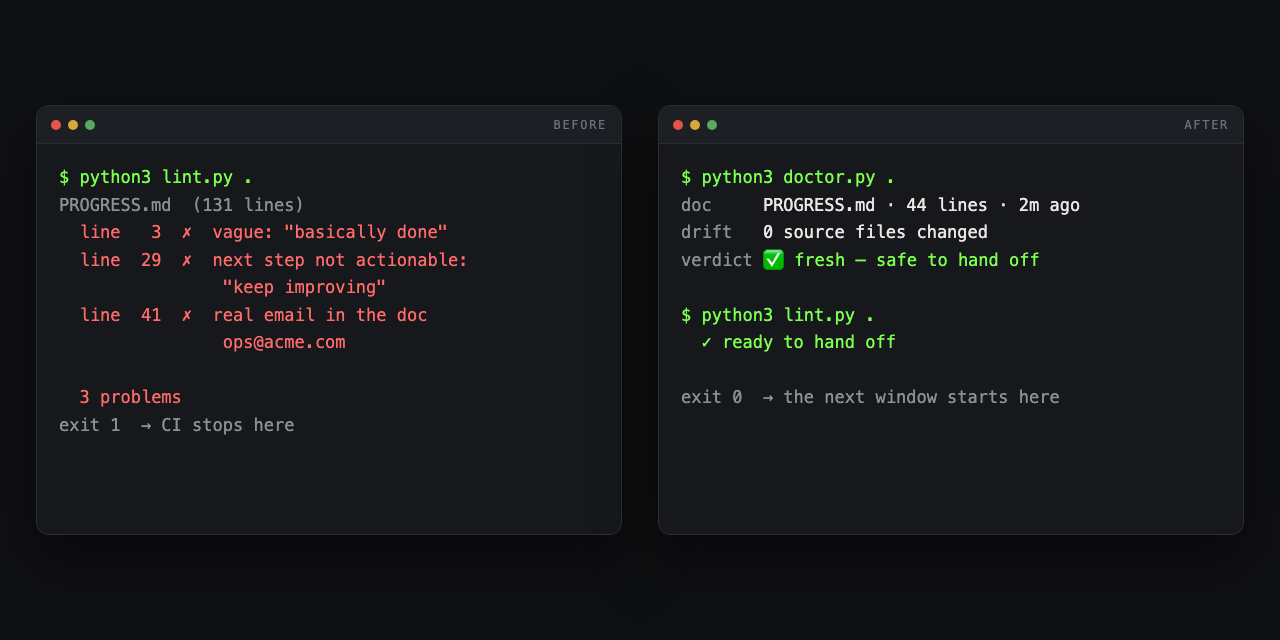
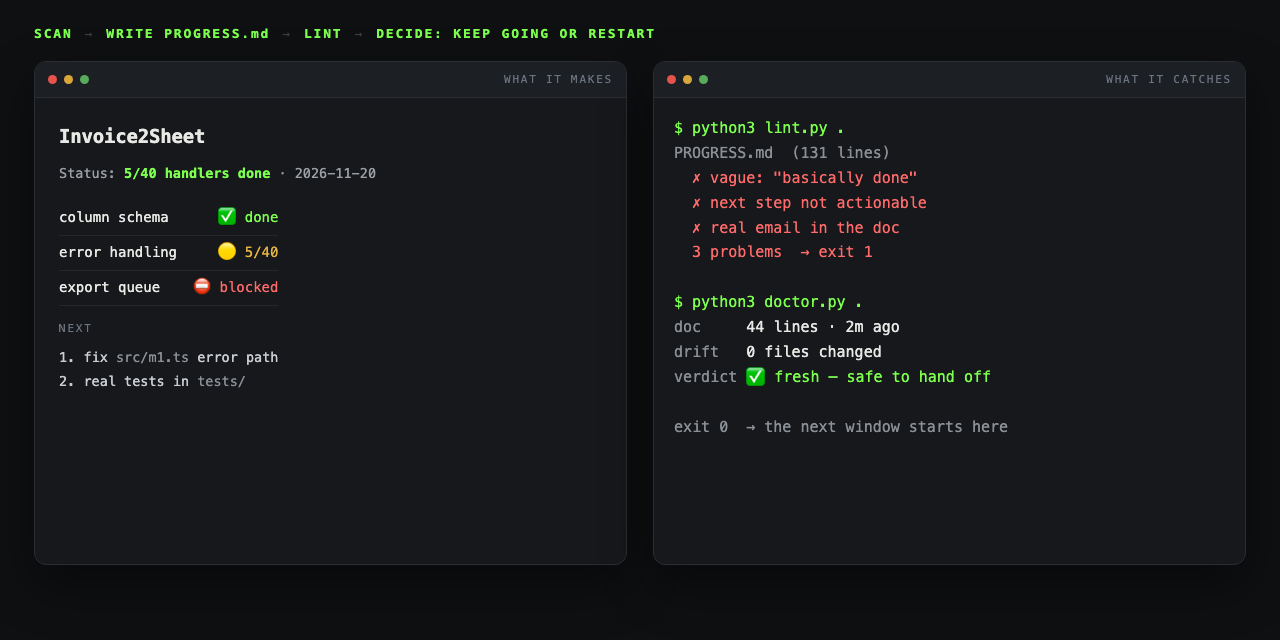
feat: install with one command; say what it makes, not just what it rejects
- README leads with 'npx skills add ming-coal/progress-brief' (verified end to end)
- demo image now shows the flow, the artifact and the lint catch
- PROGRESS.md for this repo, linted in CI (dogfooding)
- docs/launch.md updated for the registry reality

diff --git a/PROGRESS.md b/PROGRESS.md
@@ -1,0 +1,57 @@
+# progress-brief
+
+> Status: **v0.1 shipped, waiting for the first real users** · updated 2026-11-20
+
+## One-liner
+A handoff skill that reads the repo instead of the chat. Scans a project, writes a
+converged `PROGRESS.md`, lints it, and says when to restart the conversation.
+
+## Output
+| file | spec | note |
+|---|---|---|
+| `scripts/scan.py` | digest + token ledger | three tiers: worst / typical / brief |
+| `scripts/doctor.py` | exit 0/1/2 | fresh / stale / no doc |
+| `scripts/lint.py` | 11 rules | vague wording, sections, actionable steps, secrets |
+| `scripts/card.py` | 1080×1350 PNG | auto-detects Chrome/Chromium/Edge/Brave |
+| `scripts/install.py` | any agent | `--target`, `--dest`, `--agents-md`, `--prompt` |
+| `tests/` | 61 tests | CI: 3 OS × Python 3.10/3.12/3.13 |
+
+## Progress
+| # | item | where | state |
+|---|---|---|---|
+| 1 | core scripts + tests | `scripts/`, `tests/` | ✅ done |
+| 2 | any-agent install | `scripts/install.py` | ✅ done |
+| 3 | token calibration | `scripts/calibrate.py` | ✅ done (median 6.8%) |
+| 4 | public repo + release | GitHub `v0.1.0` | ✅ done |
+| 5 | first traffic | — | ⬜ 0 stars, 0 visits |
+| 6 | awesome-list listing | blocked on stars | ⛔ needs 10 / 25 stars |
+| 7 | demo video | — | ⬜ not started |
+
+## Where things live
+- docs: `README.md` (EN), `README.zh-CN.md`, `SKILL.md`, `docs/launch.md`
+- code: `scripts/`, tests in `tests/`
+- images: `docs/demo.png` (also the social preview), `docs/handoff-card.png`
+
+## Decisions
+| topic | choice | why |
+|---|---|---|
+| repo layout | one repo per skill, plus a `skills` index | different audiences, separate release cadence |
+| runtime | stdlib only, `tiktoken` optional | install must never fail on a missing dependency |
+| claims | publish the small-repo number too | 99% only holds for big repos; hiding that invites a takedown |
+| registry | `npx skills add ming-coal/progress-brief` | the standard CLI resolves any repo with `SKILL.md` at root |
+
+## Pitfalls
+1. Windows consoles default to cp1252 → every script now forces UTF-8 stdio and file IO
+2. GitHub caches images by URL → replacing a PNG needs a new filename
+3. `ubuntu-latest` dropped Python 3.9 → matrix moved to 3.10/3.12/3.13
+4. skills.sh search lists a different skill named `progress-brief` → always install by owner/repo
+
+## Next
+1. post once on X and 即刻 using the copy in `docs/launch.md`
+2. record the 40-second video: `lint` rejects a doc, then passes
+3. at 10 stars submit to `travisvn/awesome-claude-skills` by hand
+4. at 25 stars and 30 days submit the YAML to `awesome-opencode`
+5. check `gh api repos/ming-coal/progress-brief/traffic/views` weekly
+
+## Open questions
+- Is "progress-brief" still the right name when a same-named skill already exists in the registry?

diff --git a/README.md b/README.md
@@ -8,8 +8,15 @@ restart the conversation instead of pushing on.
 
 ![The doc fails lint, gets fixed, passes](docs/demo.png)
 
-Not tied to one agent. The skill is markdown plus plain Python 3.10+ scripts; it works
-anywhere an agent can run a shell command.
+## Install
+
+One command, 90+ agents (it is a normal `SKILL.md` repo, so the standard CLI finds it):
+
+```bash
+npx skills add ming-coal/progress-brief
+```
+
+No Node? Use the scripts directly:
 
 ```bash
 git clone https://github.com/ming-coal/progress-brief
@@ -18,14 +25,19 @@ python3 progress-brief/scripts/install.py
 
 | your tool | how it gets wired |
 |---|---|
-| **OpenCode** | `--target opencode` → `~/.config/opencode/skills/` |
-| **Claude Code** | `--target claude` → `~/.claude/skills/` |
-| **Cursor · Codex · Gemini CLI · Windsurf · Cline · Copilot** | `--agents-md AGENTS.md` (or `GEMINI.md`, `.cursor/rules/...`) — installs the scripts and writes a managed block into that file |
-| **any other agent / chat UI** | `--prompt` prints a paste-ready block |
-| **one project only** | `--project ~/work/thing` |
-| **custom location** | `--dest ~/tools/progress-brief` |
+| **OpenCode · Claude Code · Cursor · Codex · Gemini CLI · Windsurf · Cline · Copilot** | `npx skills add ming-coal/progress-brief` (add `-g` for user-level, `--agent claude-code` to target one) |
+| **anything without the CLI** | `python3 install.py --target opencode\|claude`, or `--dest <dir>` for any folder |
+| **agents that only read a rules file** | `python3 install.py --agents-md AGENTS.md` (also `GEMINI.md`, `.cursor/rules/...`) |
+| **chat UIs** | `python3 install.py --prompt` prints a paste-ready block |
 
-`--agents-md` is idempotent: re-running replaces the block and leaves the rest of the file alone.
+`--agents-md` is idempotent: re-running replaces its block and leaves the rest of the file alone.
+
+### Or just tell your agent
+
+> install the skill `ming-coal/progress-brief`, then use it on this project
+
+That is enough for any agent that can run a shell: the repo resolves from GitHub, and the
+`SKILL.md` at the root is the whole definition.
 
 Then just say: *"this project is half done — give me a progress brief for the next window."*
 

diff --git a/README.zh-CN.md b/README.zh-CN.md
@@ -7,24 +7,35 @@
 
 ![文档没过 lint，改完通过](docs/demo.png)
 
-不绑某一个工具。本质是一份 markdown 规则 + 几个纯 Python 3.10+ 脚本，
-**只要 agent 能执行 shell 命令就能用**。
+## 安装
+
+一条命令，90+ 个 agent 都认（本质就是个带 `SKILL.md` 的仓库）：
+
+```bash
+npx skills add ming-coal/progress-brief
+```
+
+没有 Node 就直接用脚本：
 
 ```bash
 git clone https://github.com/ming-coal/progress-brief
 python3 progress-brief/scripts/install.py
 ```
 
-| 你的工具 | 怎么接进去 |
+| 你的工具 | 接入方式 |
 |---|---|
-| **OpenCode** | `--target opencode` → `~/.config/opencode/skills/` |
-| **Claude Code** | `--target claude` → `~/.claude/skills/` |
-| **Cursor · Codex · Gemini CLI · Windsurf · Cline · Copilot** | `--agents-md AGENTS.md`（或 `GEMINI.md`、`.cursor/rules/...`），装脚本并把一段规则写进该文件 |
-| **其他 agent / 聊天界面** | `--prompt` 打印一段可直接粘贴的规则 |
-| **只装到某个项目** | `--project ~/work/thing` |
-| **任意目录** | `--dest ~/tools/progress-brief` |
+| **OpenCode · Claude Code · Cursor · Codex · Gemini CLI · Windsurf · Cline · Copilot** | `npx skills add ming-coal/progress-brief`（`-g` 装到用户级，`--agent claude-code` 只装一个） |
+| **没有这个 CLI** | `python3 install.py --target opencode\|claude`，或 `--dest <任意目录>` |
+| **只读规则文件的 agent** | `python3 install.py --agents-md AGENTS.md`（也可 `GEMINI.md`、`.cursor/rules/...`） |
+| **聊天界面** | `python3 install.py --prompt` 打印一段可粘贴的规则 |
 
-`--agents-md` 是幂等的：重跑只会替换那一段，文件其他地方不动。
+`--agents-md` 是幂等的：重跑只替换那一段，文件其他地方不动。
+
+### 或者直接跟 agent 说
+
+> 安装 skill `ming-coal/progress-brief`，然后在这个项目上用
+
+只要它能跑 shell 就够：仓库能从 GitHub 解析，根目录的 `SKILL.md` 就是全部定义。
 
 然后直接说：「这个项目做到一半了，帮我整理个进度，我下次换窗口接着做」。
 
